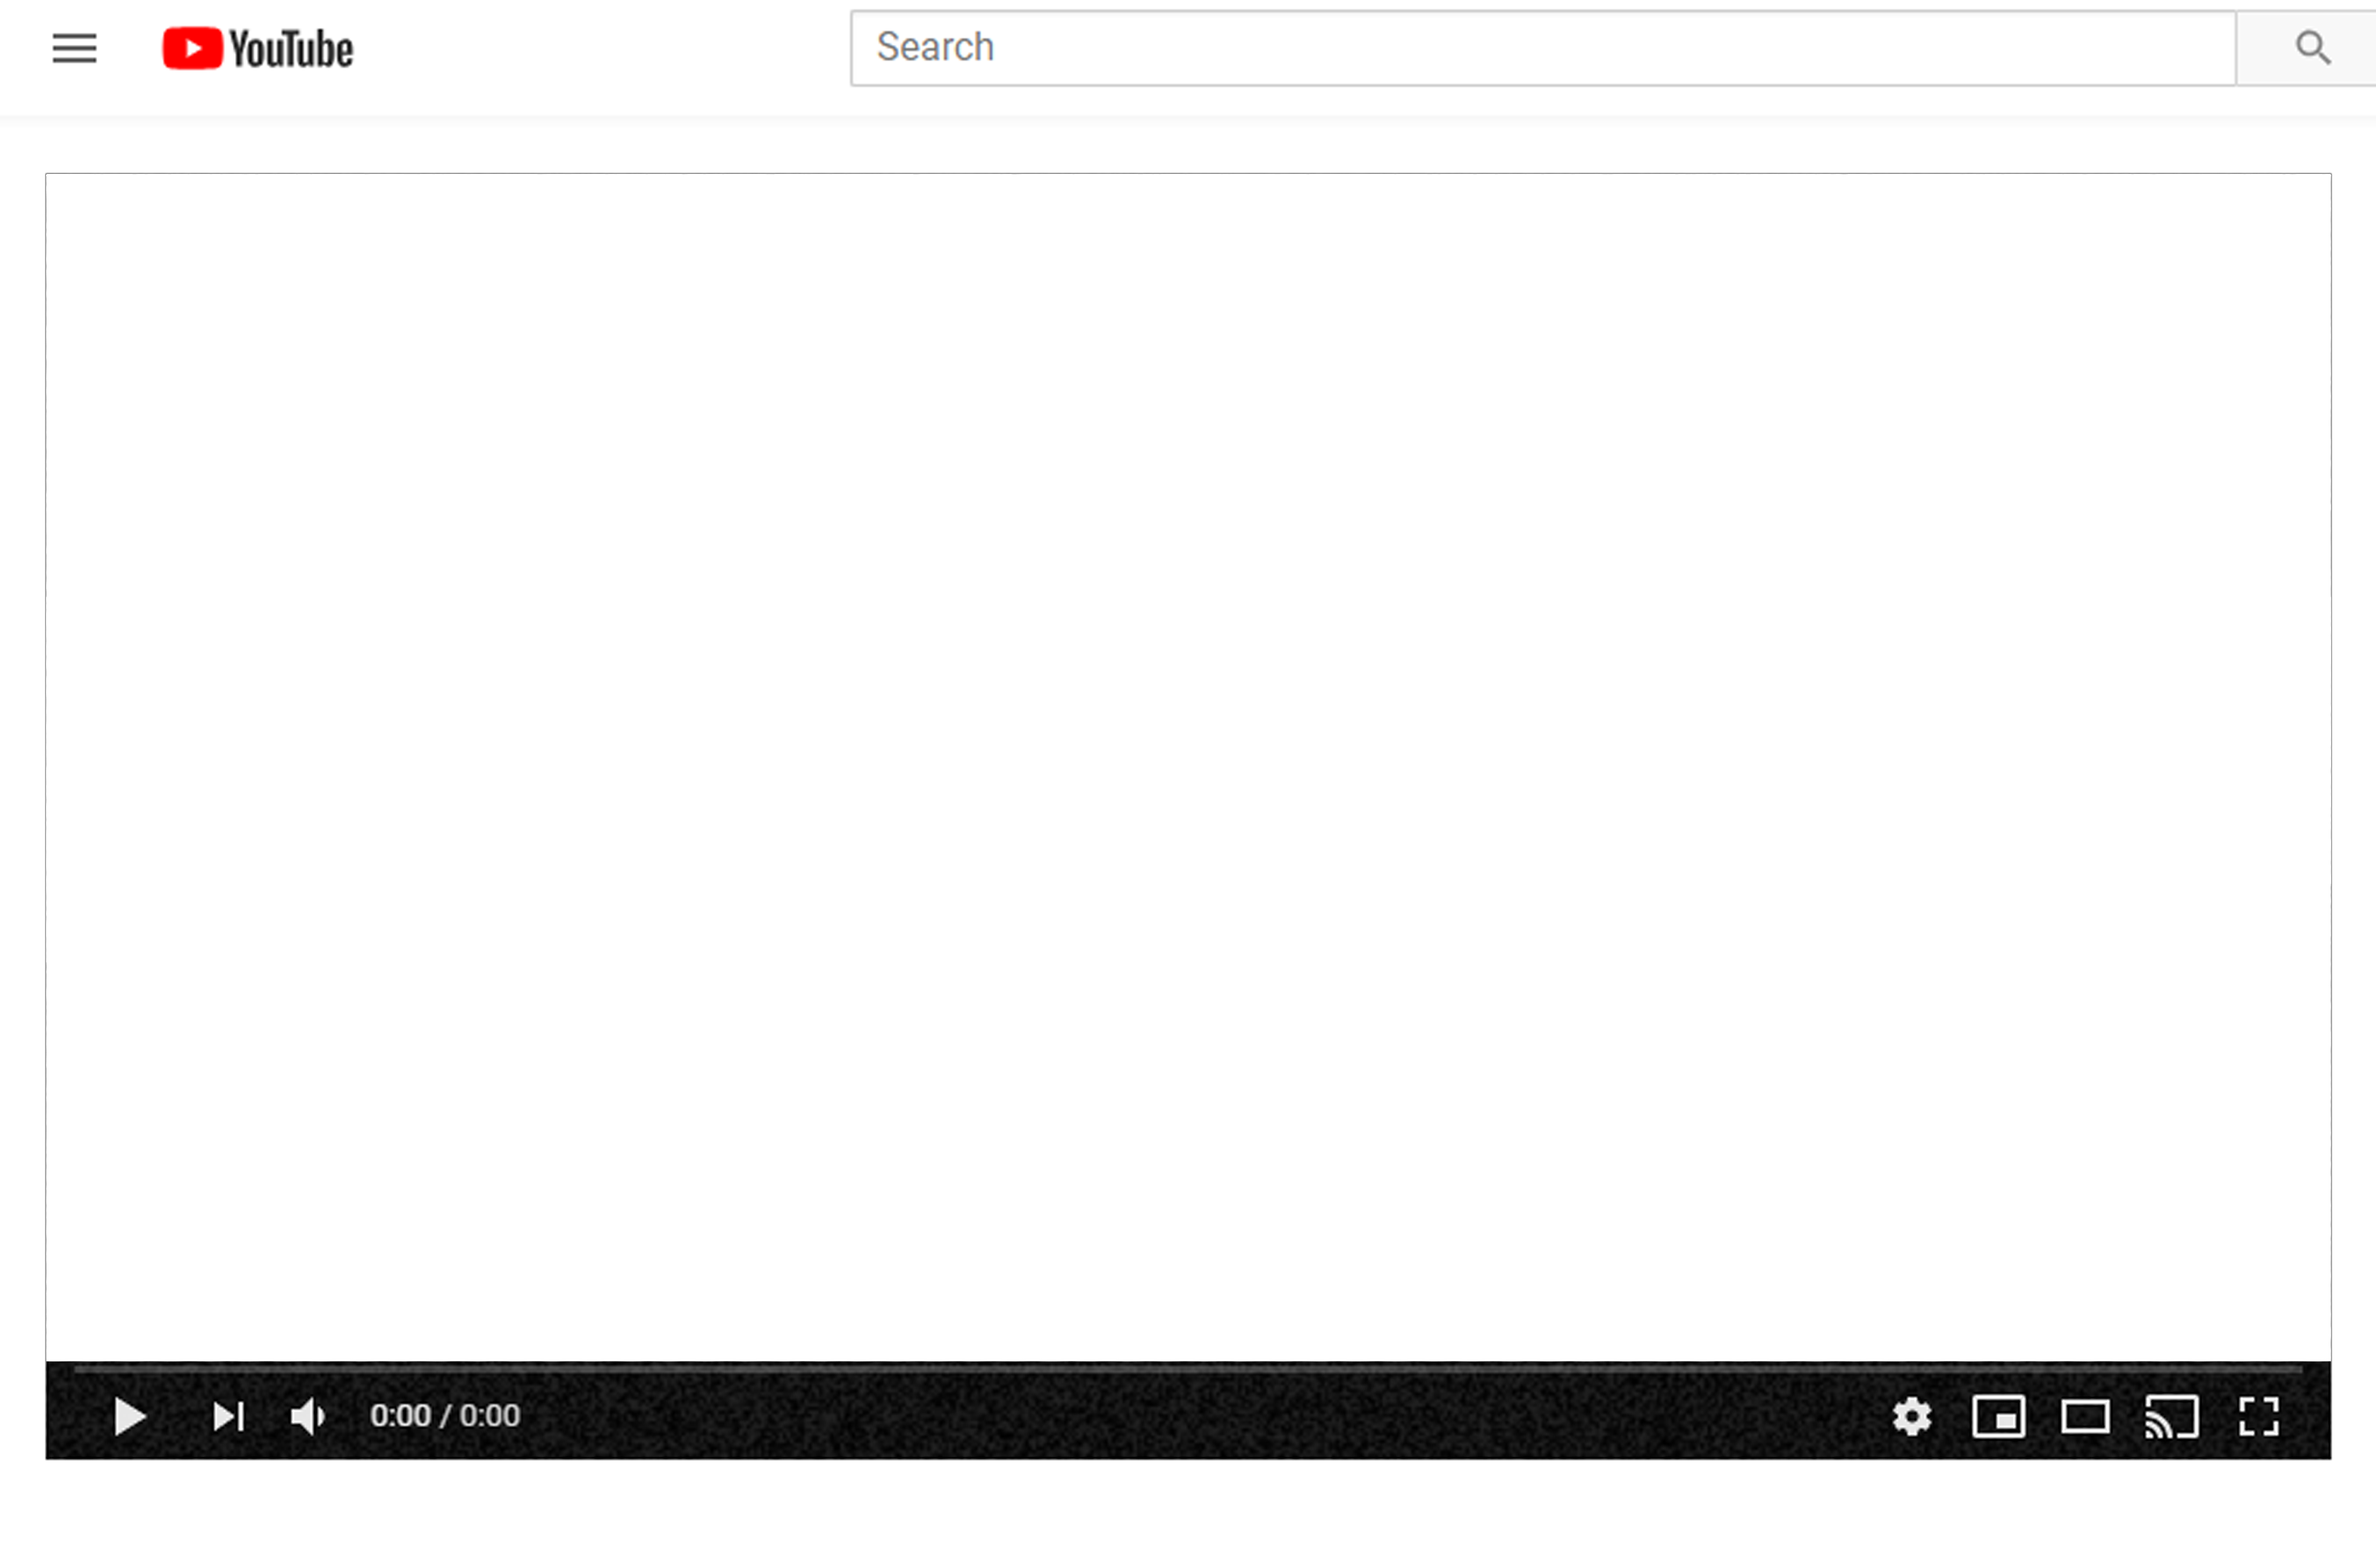
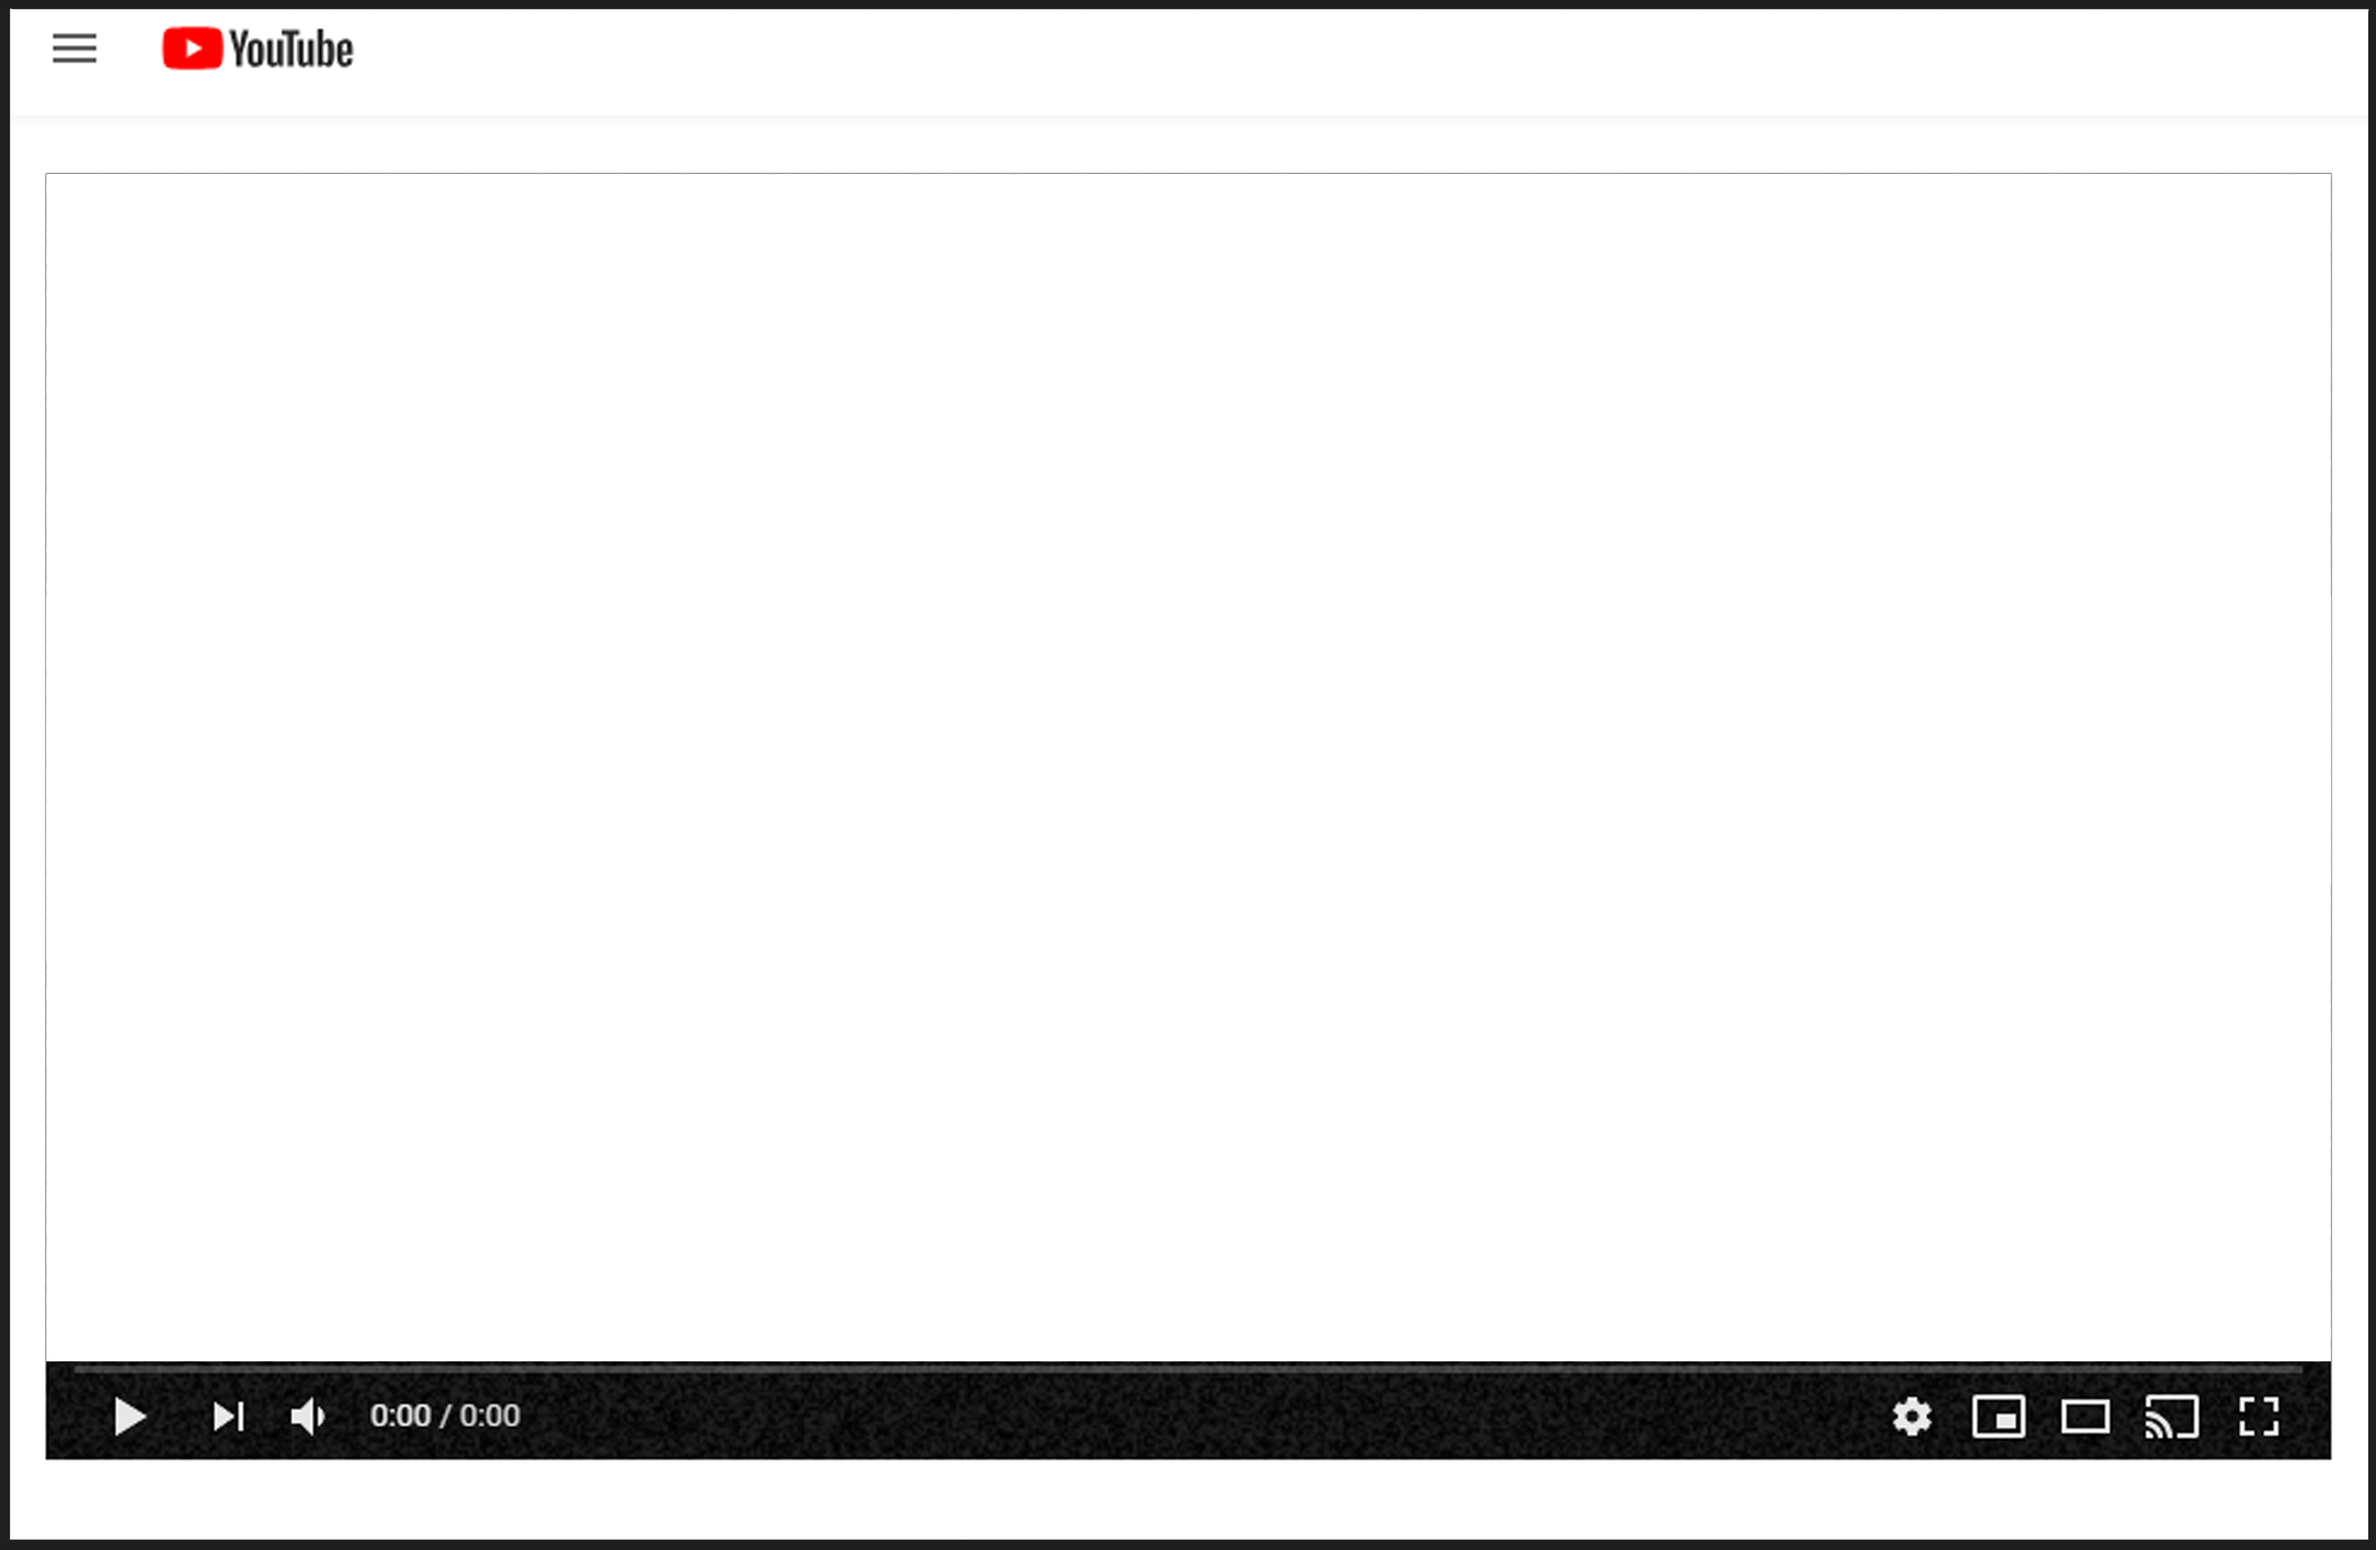
P2: Added more images/gifs

Changed region(s): [[0.0, 0.0, 1.0, 1.0]]

diff --git a/Projects/Project_2/js/script.js b/Projects/Project_2/js/script.js
@@ -17,7 +17,7 @@ if (annyang) {
     "I want to watch peppa pig": function() {
       peppaPig();
     },
-    "I want to watch elsa": function() {
+    "I want to watch frozen": function() {
       elsa();
     },
     "I want to watch minnie mouse": function() {
@@ -40,6 +40,15 @@ if (annyang) {
     },
     "I want to watch my little pony": function() {
       pony();
+    },
+    "I want to watch baby TV": function() {
+      baby();
+    },
+    "I want to watch Dave and Eva": function() {
+      daveEva();
+    },
+    "I want to watch Finger Family": function() {
+      fingerFamily();
     }
   };
   annyang.addCommands(commands);
@@ -53,36 +62,76 @@ $("#egg").click(function() {
 });
 function peppaPig() {
   console.log("peppa");
-  $("img").remove();
-  $('<img id="peppa" src="assets/images/peppa_pig.png">').appendTo("h1");
+  $(".appearImages").remove();
+  $(
+    '<img id="peppa"class = "appearImages" src="assets/images/peppa_pig.png">'
+  ).appendTo("h1");
+  console.log($(".appearImages"));
 }
 function elsa() {
-  $("img").remove();
-  $('<img id= "elsa" src="assets/images/elsa.png">').appendTo("h1");
+  $(".appearImages").remove();
+  $(
+    '<img id= "elsa" class = "appearImages"src="assets/images/elsa.png">'
+  ).appendTo("h1");
   console.log("elsa");
 }
 function mickeyMouse() {
-  $("img").remove();
-  $('<img id= "mM" src="assets/images/mickey_mouse.jpg">').appendTo("h3");
+  $(".appearImages").remove();
+  $(
+    '<img id= "mM" class = "appearImages"src="assets/images/mickey_mouse.jpg">'
+  ).appendTo("h3");
   console.log("mickey");
 }
 function minnieMouse() {
-  $("img").remove();
-  $('<img id="mMe" src="assets/images/minnie_mouse.png">').appendTo("h4");
+  $(".appearImages").remove();
+  $(
+    '<img id="mMe" class = "appearImages"src="assets/images/minnie_mouse.png">'
+  ).appendTo("h4");
   console.log("minnie");
 }
 function spiderman() {
-  $("img").remove();
-  $('<img id="spiderman" src="assets/images/spiderman.gif">').appendTo("h5");
+  $(".appearImages").remove();
+  $(
+    '<img id="spiderman" class = "appearImages"src="assets/images/spiderman.gif">'
+  ).appendTo("h5");
   console.log("spiderman");
 }
 function masha() {
-  $("img").remove();
-  $('<img id= "masha" src="assets/images/masha.png">').appendTo("h6");
+  $(".appearImages").remove();
+  $(
+    '<img id= "masha" class = "appearImages"src="assets/images/masha.png">'
+  ).appendTo("h6");
   console.log("masha");
 }
 
 function pony() {
-  $("img").remove();
-  $('<img id= "pony" src="assets/images/pony.gif">').appendTo("h7");
+  $(".appearImages").remove();
+  $(
+    '<img id= "pony" class = "appearImages" src="assets/images/pony.gif">'
+  ).appendTo("h7");
+}
+function spongebob() {
+  $(".appearImages").remove();
+  $(
+    '<img id= "spongebob" class = "appearImages"src="assets/images/spongebob.gif">'
+  ).appendTo("h8");
+}
+
+function baby() {
+  $(".appearImages").remove();
+  $(
+    '<img id= "baby" class = "appearImages"src="assets/images/baby.png">'
+  ).appendTo("h9");
+}
+function daveEva() {
+  $(".appearImages").remove();
+  $('<img id= "da" class = "appearImages"src="assets/images/da.png">').appendTo(
+    "h10"
+  );
+}
+function fingerFamily() {
+  $(".appearImages").remove();
+  $(
+    '<img id= "fingerFamily" class = "appearImages"src="assets/images/finger_family.gif">'
+  ).appendTo("h11");
 }

diff --git a/Projects/Project_2/index.html b/Projects/Project_2/index.html
@@ -40,13 +40,29 @@
     <!-- Add your required libraries here either as local files or CDN-hosted files -->
     <script src="js/script.js"></script>
   </head>
-  <div id="youtubeDiv">
-    <img id="youtube" src="assets/images/youtube.png" />
-  </div>
+  <link
+    href="https://fonts.googleapis.com/css?family=Baloo&display=swap"
+    rel="stylesheet"
+  />
   <body>
-    <h1></h1>
-    <h2></h2>
-    <h3></h3>
+    <h1 class="title">
+      <center>Welcome to the #1 Video Hosting Service</center>
+    </h1>
+
+    <div id="youtubeDiv">
+      <img id="youtube" src="assets/images/youtube.png" />
+    </div>
+    <h2 class="instructions">Say "I want to Watch":</h2>
+    <h3 class="shows">
+      Peppa Pig<br />
+      Frozen<br />
+      Minnie Mouse<br />Mickey Mouse<br />
+      Spiderman<br />
+      Masha<br />Spongebob<br />Johnny<br />
+      My Little Pony<br />
+      Baby TV <br />Dave and Eva <br />Finger Family
+    </h3>
+
     <h4></h4>
     <h5></h5>
     <h6></h6>

diff --git a/Projects/Project_2/css/style.css b/Projects/Project_2/css/style.css
@@ -1,7 +1,34 @@
 body {
+  background-color: #595959;
 }
 #youtube {
-  position: center;
-  width: 1490px;
-  height: 875px;
+  position: fixed;
+  width: 1245px;
+  height: 805px;
+  top: 78px;
+  z-index: 1;
+}
+.appearImages {
+  position: fixed;
+  width: 1225px;
+  height: 750px;
+  top: 130px;
+  z-index: 0;
+}
+
+.title {
+  text-decoration: underline;
+  font-family: "Baloo", cursive;
+}
+
+h2 {
+  text-decoration: underline;
+  font-family: "Baloo", cursive;
+  text-align: right;
+  font-size: 45px;
+}
+h3 {
+  text-align: right;
+  font-family: "Baloo", cursive;
+  font-size: 32px;
 }
